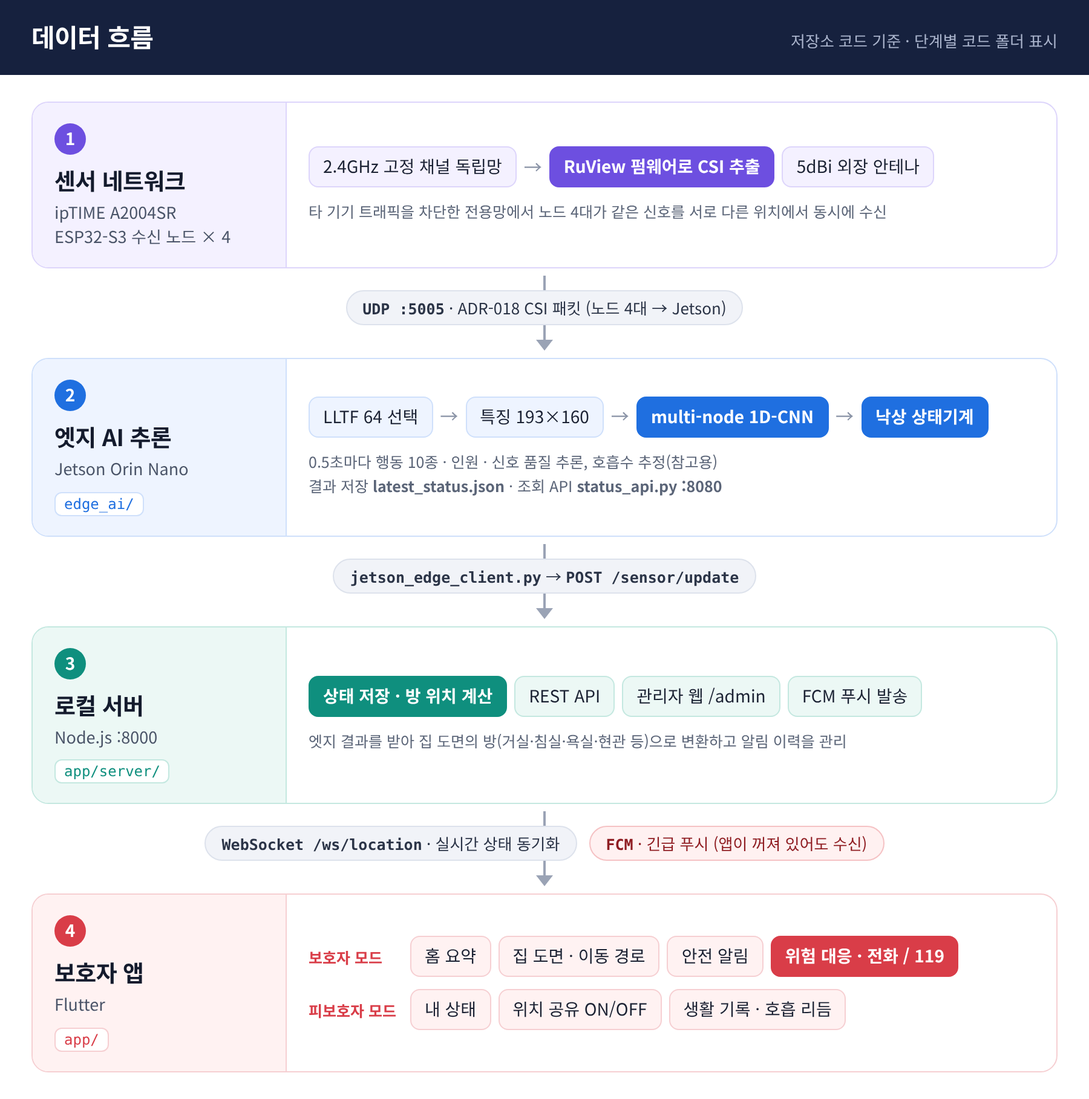
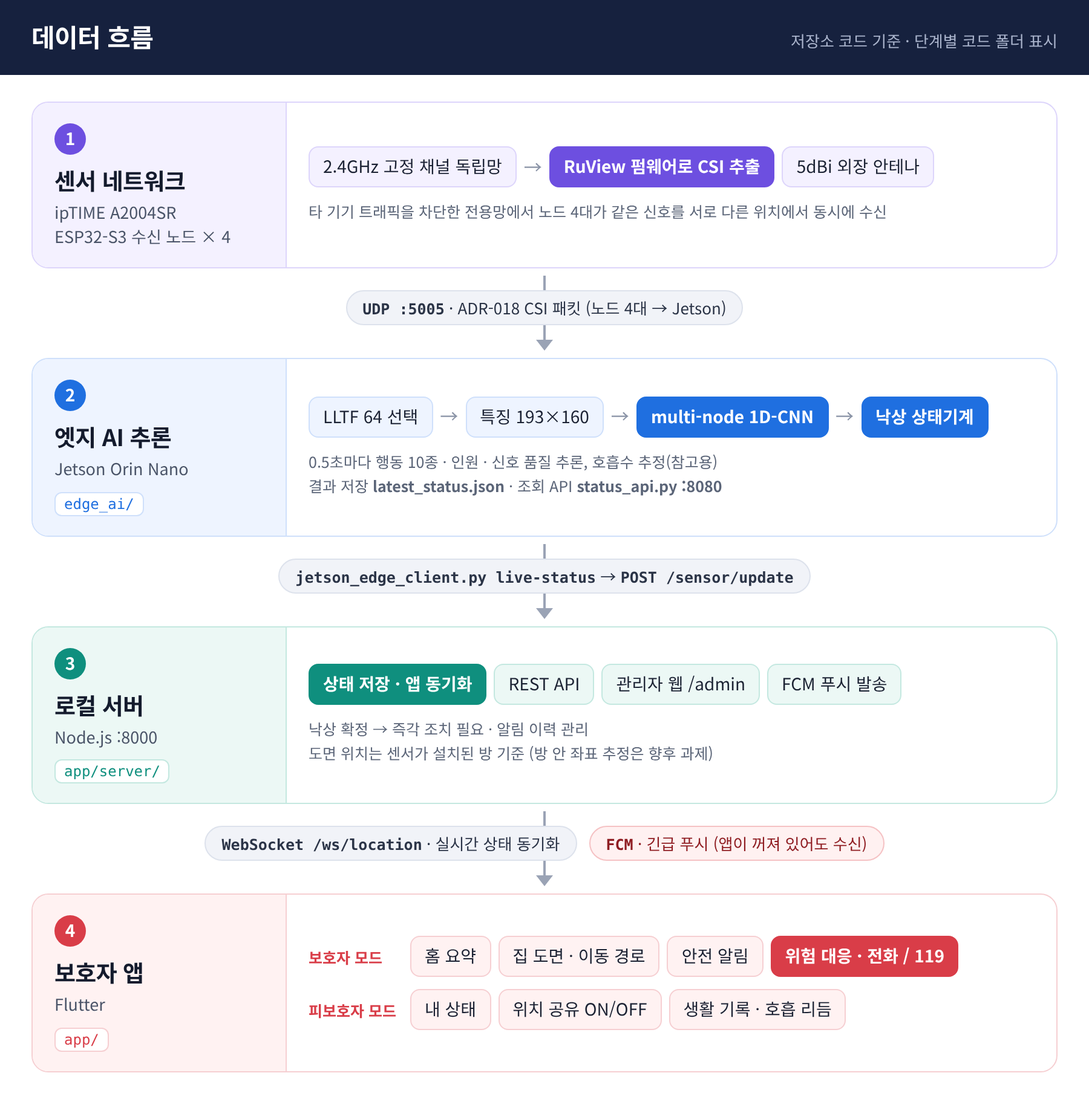
Revise README after review: V2 diagrams, scope and limits, open-source credit
첫 화면 구성도를 현재 구현(V2) 기준으로 교체, 상태기계 그림 재작성(POST_FALL_CHECK 포함),
구현 범위와 한계·V1/V2 차이·오픈소스(RuView) 활용 범위 추가, 실행 명령어 수정,
통계 출처 명시, 앱 화면 2×2·하드웨어 사진 캡션 추가.

Claude-Session: https://claude.ai/code/session_01KQA7K7SR5Knkv13akEHFhv

Changed region(s): [[0.28, 0.5853, 0.84, 0.7085], [0.28, 0.5237, 0.7156, 0.5545]]

diff --git a/README.md b/README.md
@@ -1,10 +1,18 @@
 # 📝 WiFi CSI 기반 주거 취약계층을 위한 스마트 주거 안전망
 
-> 2026년 한이음 드림업 공모전 · 카메라도, 웨어러블도 없이 **WiFi 신호만으로** 집 안 낙상을 감지하고 보호자에게 즉시 알리는 비접촉 주거 안전망
+> 2026년 한이음 드림업 공모전 · 프로젝트 번호 26_HS022<br>
+> 카메라도, 웨어러블도 없이 **WiFi 신호만으로** 집 안 낙상을 감지하고 보호자에게 즉시 알리는 비접촉 주거 안전망
 
 <p align="center">
-  <img src="docs/images/system_architecture.png" alt="전체 시스템 구성도" width="900">
+  <img src="docs/images/system_overview.png" alt="전체 시스템 구성도 - 공유기, ESP32-S3 4대, Jetson Orin Nano, 보호자 알림" width="900">
 </p>
+
+| 한눈에 보기 | |
+|---|---|
+| **무엇을** | ESP32-S3 4대가 수신한 WiFi CSI로 Jetson Orin Nano가 낙상을 판정하고, 보호자 앱에 실시간 알림과 대응 화면을 제공 |
+| **핵심 기술** | 4노드 attention 융합 multi-node 1D-CNN + 오탐을 줄이는 낙상 확정 상태기계 |
+| **코드** | `edge_ai/` 엣지 AI 파이프라인 · `app/` Flutter 앱과 로컬 서버 |
+| **현재 상태** | 센서 → 엣지 AI → 서버 → 앱 전 구간 코드 연결, 단위 테스트 31개 통과, 실환경 녹화 36건 수집 (구현 범위는 아래 6장) |
 
 ---
 
@@ -17,19 +25,19 @@
 - 동작 개요
   - **센싱** : ipTIME 공유기가 센서 전용 독립망에서 신호를 송출하고, ESP32-S3 수신 노드 4대가 CSI를 실시간 추출해 UDP로 전송
   - **엣지 AI** : Jetson Orin Nano가 4개 노드의 CSI를 통합해 multi-node 1D-CNN으로 행동·인원·신호 품질을 추론하고, 낙상 상태기계로 오탐을 걸러 낙상을 확정
-  - **알림·대응** : Node.js 로컬 서버가 WebSocket으로 앱에 상태를 실시간 동기화하고, 위급 시 FCM 푸시를 발송. 보호자는 집 도면에서 위치를 확인하고 전화·119 신고로 대응
+  - **알림·대응** : 로컬 서버가 WebSocket으로 앱에 상태를 실시간 동기화하고, 위급 시 FCM 푸시를 발송. 보호자는 집 도면에서 위치를 확인하고 전화·119 신고로 대응
 
 **1-2. 개발 배경 및 필요성**
 
 - **돌봄 공백의 심화** : 65세 이상 1인 가구는 2022년 192.3만 가구에서 2052년 496.1만 가구로 늘어날 전망이며(통계청), 독거노인 비율도 2024년 23.7%로 2000년(16.2%) 대비 크게 증가했습니다. 인력 기반의 상시 돌봄은 한계에 도달해 기술 기반 상시 모니터링이 필요합니다.
-- **낙상은 집 안에서 일어난다** : 고령자 안전사고의 62.7%가 낙상이고, 낙상 사고의 51.3%가 주택 내에서 발생합니다. 혼자 사는 고령자에게는 쓰러진 뒤 발견이 늦어지는 것 자체가 가장 큰 위험입니다.
+- **낙상은 집 안에서 일어난다** : 한국소비자원 소비자위해감시시스템(CISS)에 접수된 65세 이상 고령자의 가정 내 안전사고 10,751건 중 69.0%(7,423건)가 미끄러짐·넘어짐 사고였습니다([아시아경제, 2025.3.25](https://view.asiae.co.kr/article/2025032417042451647)). 혼자 사는 고령자에게는 쓰러진 뒤 발견이 늦어지는 것 자체가 가장 큰 위험입니다.
 - **기존 방식의 한계** : 카메라는 상시 촬영에 따른 사생활 침해로 설치 거부감이 크고, 웨어러블은 착용 거부·충전 누락 시 감지가 불가능합니다.
 - **비접촉 WiFi 센싱의 가능성** : 이미 집에 있는 WiFi 신호의 미세한 왜곡만으로 동작을 인식할 수 있어, 착용·촬영 없이 생활을 방해하지 않는 상시 감지가 가능하고 저가 모듈로 도입 비용도 낮습니다.
 
 **1-3. 프로젝트 특장점**
 
 - **완전 비접촉·비촬영** : 카메라·웨어러블 없이 WiFi CSI만으로 감지하여 사생활 침해와 착용 부담을 원천 제거
-- **저비용 하드웨어** : 고가의 WiFi 센싱 전용 NIC 대신 XIAO ESP32-S3 + 오픈소스 RuView 펌웨어로 CSI 추출 노드 구성
+- **저비용 하드웨어** : 고가의 WiFi 센싱 전용 NIC 대신 XIAO ESP32-S3 + 오픈소스 [RuView](https://github.com/ruvnet/RuView) 펌웨어로 CSI 추출 노드 구성
 - **다중 노드 attention 융합** : 4개 수신 노드의 CSI를 노드별 신호 품질과 함께 attention으로 가중 통합하여, 일부 노드가 끊겨도(node mask) 안정적으로 추론
 - **오탐을 줄이는 낙상 상태기계** : 한 번의 확률 튐으로는 알림을 보내지 않고 `낙상 후보 → 사후 눕기 확인 → 확정 / 회복` 단계를 거쳐야만 경보 전송
 - **엣지 로컬 처리** : 원시 CSI는 외부로 나가지 않고 Jetson 안에서만 처리되어 프라이버시와 실시간성을 동시에 확보
@@ -46,10 +54,10 @@
 | AI | multi-node 1D-CNN | 노드별 1D-CNN 인코더 + attention 융합으로 행동 10종·인원 4분류·신호 품질 동시 추론 |
 | AI | 낙상 상태기계 | 반복된 낙상 확률 → 사후 눕기 확인 → 확정(30초 경보 유지) / 회복 시 경보 취소 |
 | AI | 호흡 리듬 모니터링 | 정지 상태에서 CSI 진폭 스펙트럼(6~30회/분 대역)으로 분당 호흡수 추정 (참고용) |
-| Server | 실시간 상태 동기화 | Node.js 로컬 서버가 `POST /sensor/update`로 엣지 결과를 받아 `WS /ws/location`으로 앱에 전달 |
-| Server | 긴급 푸시 | 위험 상황 시 Firebase Cloud Messaging으로 보호자 기기에 푸시 (앱이 꺼져 있어도 수신) |
+| Server | 엣지 → 서버 연동 | `jetson_edge_client.py live-status`가 엣지 추론 결과를 서버 형식으로 변환해 `POST /sensor/update`로 전달 |
+| Server | 실시간 동기화 · 긴급 푸시 | 로컬 서버가 `WS /ws/location`으로 앱에 상태를 전달하고, 위험 시 FCM 푸시 발송(앱이 꺼져 있어도 수신) |
 | App | 역할 기반 화면 | 하나의 앱에서 보호자 모드(위험 대응 중심) / 피보호자 모드(생활 상태·위치 공유 관리) 선택 |
-| App | 디지털 트윈 도면 | 집 도면 위에 현재 위치·사람 미니어처·최근 이동 경로 표시, 위치 공유 OFF 시 동선 비공개 |
+| App | 집 도면 위치 표시 | 도면 위에 위치·사람 미니어처·최근 이동 경로 표시(센서 설치 방 기준), 위치 공유 OFF 시 동선 비공개 |
 | App | 위험 대응 | 즉각 조치 알림 → 발생 위치·자세 확인 → 어르신 전화 / 119 신고 정보 / 5단계 상황 대응 절차 |
 
 **1-5. 기대 효과 및 활용 분야**
@@ -68,7 +76,7 @@
 
 - 센서 / H/W : XIAO ESP32-S3 (RuView 펌웨어, 2.4GHz CSI), 2.4GHz 5dBi 다이폴 외장 안테나, ipTIME A2004SR(802.11ac, MU-MIMO), NVIDIA Jetson Orin Nano Super 8GB (JetPack 6.2.1, NVMe SSD)
 - 엣지 AI : Python, PyTorch(CUDA), NumPy, UDP 소켓, systemd 서비스
-- 서버 : Node.js(HTTP + WebSocket 로컬 서버), Python FastAPI(대안 서버), Firebase Cloud Messaging
+- 서버 : Node.js(HTTP + WebSocket 로컬 서버), Firebase Cloud Messaging
 - 모바일 앱 : Flutter(Dart), web_socket_channel, firebase_messaging
 - 협업 / 관리 : GitHub, Notion, Figma(UI/UX 설계), 카카오톡
 
@@ -84,53 +92,51 @@
 
 ## **💡3. 시스템 구성도**
 
-**3-1. 서비스 구성도**
+**3-1. 데이터 흐름 (저장소 코드 기준)**
 
-데이터 수집(센싱 환경) → 엣지 추론 및 백엔드 → 프론트엔드 및 긴급 대응의 3계층으로 구성됩니다.
-
-<p align="center"><img src="docs/images/service_structure.png" alt="서비스 구성도" width="800"></p>
-
-**3-2. 데이터 흐름 (저장소 코드 기준)**
+각 단계 카드에 해당 코드가 있는 폴더를 표시했습니다.
 
 <p align="center"><img src="docs/images/data_flow.png" alt="데이터 흐름 - 센서 네트워크, 엣지 AI, 로컬 서버, 보호자 앱" width="820"></p>
 
-**3-3. 낙상 감지 AI 추론 흐름도 (V2)**
+**3-2. 낙상 감지 추론 흐름 · 상태기계**
 
 낙상 여부는 특정 순간의 확률값 하나로 판단하지 않고, 0.5초마다 들어오는 추론 결과를 상태기계로 누적해 순차적으로 확인합니다.
 
-<p align="center"><img src="docs/images/inference_flow_v2.png" alt="실시간 낙상 감지 추론 흐름도 V2" width="520"></p>
+<p align="center"><img src="docs/images/fall_state_machine.png" alt="낙상 감지 추론 흐름과 상태기계" width="900"></p>
 
-| 단계 | 조건 (`config/default_config.json`) | 결과 |
+| 단계 | 조건 (`edge_ai/config/default_config.json`) | 결과 |
 |---|---|---|
 | ① 낙상 후보 | fall 확률 ≥ 0.70 이 2회 누적 | `NORMAL → FALL_CANDIDATE → POST_FALL_CHECK` |
 | ② 사후 확인 | lying(눕기) 확률 ≥ 0.55 가 3회 | `CONFIRMED` · 낙상 확정 알림 전송, 30초간 경보 유지 |
-| ③ 회복 체크 | walking/standing/stand_up 확률 ≥ 0.65 가 2회 | `RECOVERED` · 단순히 앉거나 눕는 동작으로 보고 경보 취소 |
-| ④ 시간 초과 | 8초 안에 확정·회복 모두 아님 | `NORMAL` 복귀 |
-| 예외 | 신호 품질 < 0.55 / 빈 방(인원 0) | `UNKNOWN`으로 판단 유보 / `NORMAL` |
+| ③ 회복 체크 | 서기·걷기·일어서기 확률 ≥ 0.65 가 2회 | `RECOVERED` · 단순히 앉거나 누웠다 일어난 것으로 보고 경보 취소 |
+| ④ 시간 초과 | 8초 안에 확정·회복 모두 없음 | `NORMAL` 복귀 |
+| 예외 | 신호 품질 < 0.55 / 방에 사람 없음(인원 0) 예측 | `UNKNOWN`으로 판단 유보 / `NORMAL` — 단, 사후 확인·확정 중에는 두 경우 모두 상태 유지 |
 
-**3-4. H/W 구성도**
+**3-3. H/W 구성 (실물)**
 
-<p align="center"><img src="docs/images/hardware.jpg" alt="하드웨어 실물 사진" width="900"></p>
+<p align="center"><img src="docs/images/hardware.jpg" alt="하드웨어 실물 - 공유기, 센서 노드, 엣지 서버, 설치 모습" width="900"></p>
 
 | 구성 | 부품 | 역할 |
 |---|---|---|
-| 네트워크·송신 | ipTIME A2004SR | 2.4GHz 고정 채널·전용 SSID·노드별 고정 IP로 센서 전용 독립망 구성, 타 기기 트래픽 간섭 차단 |
-| 센서 노드 ×4 | XIAO ESP32-S3 + 5dBi 외장 안테나(U.FL→SMA) | RuView 펌웨어로 CSI 추출, 내장 안테나(RSSI -80dBm 수준) 한계를 외장 다이폴로 개선 |
-| 엣지 서버 | Jetson Orin Nano Super 8GB | JetPack 6.2.1 + NVMe SSD, GPU 가속 실시간 추론, 원시 CSI 로컬 처리 |
-| 설치 환경 | 연구실 · 생활 주거 공간 | 감지 영역 네 모서리에 노드를 분산 배치해 다중 관점(multi-view) CSI 확보 |
+| ① 네트워크·송신 | ipTIME A2004SR | 2.4GHz 고정 채널·전용 SSID·노드별 고정 IP로 센서 전용 독립망 구성, 타 기기 트래픽 간섭 차단 |
+| ② 센서 노드 ×4 | XIAO ESP32-S3 + 5dBi 외장 안테나(U.FL→SMA) | RuView 펌웨어로 CSI 추출, 내장 안테나(RSSI -80dBm 수준) 한계를 외장 다이폴로 개선 |
+| ③ 엣지 서버 | Jetson Orin Nano Super 8GB | JetPack 6.2.1 + NVMe SSD, GPU 가속 실시간 추론, 원시 CSI 로컬 처리 |
+| ④ 설치 환경 | 연구실 · 생활 주거 공간 | 감지 영역 네 모서리에 노드를 분산 배치해 다중 관점(multi-view) CSI 확보 |
 
-**3-5. 앱 메뉴 구성도 및 화면**
+**3-4. 앱 메뉴 구성도 및 화면**
 
 <p align="center"><img src="docs/images/app_menu.png" alt="앱 메뉴 구성도" width="700"></p>
 
-<p align="center"><img src="docs/images/app_screens.png" alt="보호자 앱 화면 - 홈, 집 안 상태, 안전 알림, 설정" width="900"></p>
+<p align="center"><img src="docs/images/app_screens.png" alt="보호자 앱 화면 - 홈 요약, 집 안 상태, 안전 알림, 설정" width="640"></p>
 
-**3-6. 엔티티 관계도**
+**3-5. 엔티티 관계도 (서비스 확장용 설계안)**
 
 <p align="center"><img src="docs/images/erd.png" alt="엔티티 관계도" width="700"></p>
 
+> 현재 로컬 서버는 보호자·설정·알림 이력을 JSON 상태 파일(`app/server/dev_state.json`)에 저장합니다. 위 ERD는 다중 사용자 서비스로 확장할 때의 DB 설계안입니다.
+
 <details>
-<summary>유즈케이스 다이어그램 보기</summary>
+<summary>유즈케이스 다이어그램 보기 (설계 단계)</summary>
 <p align="center"><img src="docs/images/usecase.png" alt="유즈케이스 다이어그램" width="900"></p>
 </details>
 
@@ -138,9 +144,9 @@
 
 ## **💡4. 작품 소개영상**
 
-[![WiFi CSI 기반 스마트 주거 안전망 소개영상](https://img.youtube.com/vi/VIDEO_ID/maxresdefault.jpg)](https://youtu.be/VIDEO_ID)
+> 🎬 **소개영상 링크 추가 예정**
 
-**시스템 동작 행동화 (데이터 수집 과정)**
+**동작 시연 (실환경 데이터 수집 과정)**
 
 | 앉는 동작 | 눕는 동작 | 넘어지는 동작 |
 |:---:|:---:|:---:|
@@ -236,9 +242,72 @@ features = np.concatenate(
 )  # (64 + 64 + 64 + 1 = 193, 160 frames)
 ```
 
+**5-4. 엣지 → 서버 연동** — [`app/server/jetson_edge_client.py`](app/server/jetson_edge_client.py)
+
+- 소스코드 설명 : 엣지 AI의 실시간 결과(`latest_status.json`)를 읽어 서버 입력 형식으로 바꿉니다. 상태기계가 `CONFIRMED`일 때만 `danger`로 보내고, 호흡수는 엣지가 신뢰할 수 있다고 판단한 값만 전달합니다. 값이 없을 때 임의의 숫자를 채워 넣지 않습니다.
+
+```python
+def payload_from_live_status(record, args):
+    fall = record.get("fall") or {}
+    alarm = bool(fall.get("alarm")) or fall.get("state") == "confirmed"
+    activity = str(record.get("activity") or "unknown")
+    probabilities = record.get("activity_probabilities") or {}
+    if alarm:
+        status, pose = "danger", "lying"
+        confidence = probabilities.get("fall", record.get("activity_confidence"))
+    else:
+        status = "normal"
+        pose = LIVE_ACTIVITY_TO_POSE.get(activity, "standing")
+    ...
+    breathing_rate = respiratory.get("breathing_rate_bpm")   # 신뢰 가능할 때만 값이 있음
+    if breathing_rate is not None:
+        payload["breathingRate"] = round(clamp(float(breathing_rate), 6.0, 36.0), 1)
+    return payload
+```
+
 ---
 
-## **💡6. 저장소 구조**
+## **💡6. 구현 범위와 한계**
+
+심사·재현 시 혼동이 없도록, 저장소에 실제로 구현된 범위를 구분해 밝힙니다.
+
+| 구분 | 내용 |
+|---|---|
+| **구현됨 (저장소 포함)** | CSI 패킷 수신·검증 · 193채널 특징 추출 · multi-node 1D-CNN 학습·평가·실시간 추론 코드 · 낙상 확정 상태기계 · 호흡수 추정(참고용) · 상태 조회 API · 엣지 → 서버 연동(`live-status`) · 로컬 서버 WebSocket·FCM · 보호자/피보호자 앱 화면 · 위치 공유 OFF 시 동선 비공개(위험 알림은 유지) |
+| **시연용으로 단순화** | 도면 위치: 모델은 방 단위로 판단하므로 센서가 설치된 방의 도면 좌표로 표시 · 로그인: 역할 선택용(인증 미구현) · 발표용 시나리오 재현(`sequence` 모드, 관리자 콘솔) · 상황 재연 화면: 알림 기록으로 재구성한 예시 화면 |
+| **계획 · 저장소 미포함** | 일일·주간 생활 패턴 리포트 · ERD 기반 DB(현재 JSON 상태 파일) · 위험/안전구역 공간 필터 · 외부망 보호자 접속(현재 같은 네트워크 + FCM 푸시) · 서버 API 인증 · 학습된 모델 가중치와 원본 CSI 데이터(용량 문제) |
+
+**개발보고서(V1)와 현재 저장소(V2)의 차이**
+
+개발보고서는 초기 모델(V1) 기준으로 작성되었고, 저장소에는 이후 고도화한 V2 파이프라인이 들어 있습니다.
+
+| 항목 | V1 (개발보고서) | V2 (현재 저장소) |
+|---|---|---|
+| 입력 | 4노드 유효 134채널 × 500프레임 (100Hz · 5초) | 노드별 193채널 × 160프레임 (32Hz 보간 · 5초), 최대 4노드 |
+| 정규화 | z-score | 로그 진폭 + 중앙값·MAD 동적 진폭 + 위상차 + RSSI |
+| 모델 | 1D-CNN 3층, 낙상/비낙상 2종 | 노드 공유 1D-CNN + attention 융합, 행동 10종 · 인원 · 품질 |
+| 후처리 | 시간·공간 필터 | 낙상 확정 상태기계 (후보 → 사후 확인 → 확정 / 회복) |
+| 배포 | TensorRT 엔진 변환 | PyTorch 실시간 추론 (systemd 서비스) |
+| 저장소 | 미포함 | `edge_ai/` |
+
+---
+
+## **💡7. 오픈소스 활용 및 팀 기여**
+
+| 오픈소스 | 라이선스 | 사용 범위 |
+|---|---|---|
+| [RuView](https://github.com/ruvnet/RuView) | MIT | ESP32-S3 CSI 추출 펌웨어, CSI 패킷 형식(ADR-018) |
+
+RuView에는 자체 낙상·호흡 감지 기능도 있지만, 본 프로젝트는 **CSI를 뽑아 보내는 펌웨어로만** 사용했습니다. Jetson에서 동작하는 감지·판단 로직은 팀이 직접 구현했습니다.
+
+- CSI 패킷 수신·검증과 LLTF 블록 선택 — `edge_ai/hanium_fall_v2/adr018.py`, `edge_ai/ruview_adr018_receiver.py`
+- 특징 추출, multi-node 1D-CNN, 데이터셋 분할·학습·평가 — `features.py`, `model.py`, `build_manifest.py`, `train.py`, `evaluate.py`
+- 낙상 확정 상태기계, 호흡·기침 후보 모니터링 — `fall_state.py`, `respiratory.py`, `cough.py`
+- Jetson 배포(systemd), 상태 API, 엣지 → 서버 연동, 로컬 서버, Flutter 앱 — `edge_ai/jetson/`, `status_api.py`, `app/`
+
+---
+
+## **💡8. 저장소 구조**
 
 기존에 따로 관리하던 두 저장소(`Hanium_jetson`, `Hanium_app`)를 커밋 이력을 보존한 채 하나로 합쳤습니다.
 
@@ -247,65 +316,55 @@ features = np.concatenate(
 ├── README.md
 ├── docs/
 │   ├── images/                  # README 구성도·화면·실물 사진
-│   └── data_collection/         # 실환경 CSI 녹화 세션 기록 (36개 녹화, 익명화)
+│   └── data_collection/         # 실환경 CSI 녹화 세션 기록 (36건, 익명화)
 ├── edge_ai/                     # (구 Hanium_jetson) Jetson 엣지 AI 파이프라인
-│   ├── hanium_fall_v2/          #   특징 추출·모델·학습·낙상 상태기계·호흡/기침 모니터링
-│   │   ├── adr018.py            #     RuView ADR-018 CSI 패킷 파서
-│   │   ├── features.py          #     193채널 × 160프레임 특징 추출
-│   │   ├── model.py             #     multi-node 1D-CNN
-│   │   ├── fall_state.py        #     낙상 확정 상태기계
-│   │   ├── live_inference.py    #     실시간 UDP 수신 + 추론
-│   │   ├── capture_labeled.py   #     라벨링된 CSI 수집
-│   │   ├── train.py / evaluate.py
-│   │   └── status_api.py        #     추론 결과 HTTP API
+│   ├── hanium_fall_v2/          #   패킷 파서 · 특징 추출 · 모델 · 학습/평가 · 상태기계 · 호흡/기침 · 상태 API
 │   ├── config/default_config.json
-│   ├── jetson/                  #   systemd 서비스·실행 스크립트
-│   └── tests/
+│   ├── jetson/                  #   실행 스크립트 · systemd 서비스
+│   └── tests/                   #   단위 테스트
 └── app/                         # (구 Hanium_app) 모바일 앱 + 로컬 서버
     ├── lib/                     #   Flutter 앱 (보호자/피보호자 모드, 도면, 알림)
-    ├── server/                  #   Node.js 로컬 서버, FastAPI 대안 서버, Jetson 연동 클라이언트
+    ├── server/                  #   Node.js 로컬 서버(dev_mock_server.js), 엣지 연동 클라이언트
     └── docs/
 ```
 
+> `app/server/main.py`, `routers/`, `services/`는 초기 FastAPI 프로토타입으로, 현재 시연은 Node.js 서버를 사용합니다.
+
 ---
 
-## **💡7. 실행 방법**
+## **💡9. 실행 방법**
 
 **① 엣지 AI (Jetson Orin Nano)**
 
 ```bash
 cd edge_ai
-pip install -r requirements.txt          # + JetPack에 맞는 PyTorch
-python3 -m hanium_fall_v2.selftest       # 파이프라인 자체 점검
+pip install -r requirements.txt               # + JetPack에 맞는 PyTorch
+python3 -m hanium_fall_v2.selftest            # 파이프라인 자체 점검
+python3 -m unittest discover -s tests         # 단위 테스트
 
-# 실시간 추론 (ESP32 노드 1~4에서 UDP 5005로 수신)
-RUVIEW_APP_DIR=$(pwd) \
-RUVIEW_CHECKPOINT=$(pwd)/models/production/best_model.pt \
-./jetson/run_live.sh
-
-# 상태 API (기본 :8080) / systemd 서비스 등록
-RUVIEW_APP_DIR=$(pwd) ./jetson/run_api.sh
-./jetson/install_services.sh "$(pwd)"
+RUVIEW_CHECKPOINT=$(pwd)/models/production/best_model.pt ./jetson/run_live.sh   # 실시간 추론 (UDP 5005)
+./jetson/run_api.sh                           # 상태 API (기본 :8080)
+./jetson/install_services.sh                  # 부팅 시 자동 실행 등록
 ```
-
-> 학습된 체크포인트(`*.pt`)와 수집 데이터(`captures/`)는 용량 문제로 저장소에 포함하지 않습니다.
 
 **② 로컬 서버 (노트북 / 발표 PC)**
 
 ```powershell
 cd app\server
-$env:REAL_SENSOR_ONLY="true"                                   # 실제 센서 값만 반영
-$env:GOOGLE_APPLICATION_CREDENTIALS="<firebase-service-account.json 경로>"   # FCM 사용 시
-.\run_mock_server_node.cmd                                     # http://127.0.0.1:8000/admin
+$env:REAL_SENSOR_ONLY="true"                                                  # 실제 센서 값만 반영
+$env:GOOGLE_APPLICATION_CREDENTIALS="<firebase-service-account.json 경로>"     # FCM 사용 시
+.\run_mock_server_node.cmd                                                    # 관리자 화면 http://127.0.0.1:8000/admin
 ```
 
-Jetson에서 서버로 결과 전달:
+**③ 엣지 결과를 서버로 전달**
 
 ```bash
-python3 app/server/jetson_edge_client.py --server-url http://<서버 IP>:8000 health
+python3 app/server/jetson_edge_client.py health --server-url http://<서버 IP>:8000           # 연결 확인
+python3 app/server/jetson_edge_client.py live-status \
+  --status-file edge_ai/runtime/latest_status.json --server-url http://<서버 IP>:8000        # 실시간 전달
 ```
 
-**③ Flutter 앱**
+**④ Flutter 앱**
 
 ```bash
 cd app
@@ -317,18 +376,19 @@ flutter run --dart-define=SERVER_URL=http://<서버 IP>:8000 --dart-define=DEMO_
 
 ---
 
-## **💡8. 검증 결과**
+## **💡10. 검증 결과**
 
 - **재현율(Recall) 최우선 설계** : 낙상을 놓치는 것(미탐)이 곧 인명 피해로 이어지므로 정확도 대신 재현율을 1차 지표로 삼고, 클래스 가중 교차 엔트로피로 소수 클래스인 낙상 학습을 강화했습니다.
-- **실환경 데이터 수집** : 2026년 7월 4차례에 걸쳐 CSI와 웹캠 관절 좌표를 동시에 녹화했습니다(총 36개 녹화: 낙상 14 · 비틀거리기·물건 줍기 등 혼동 동작 7 · 일상 동작 15). 세션별 목록은 [`docs/data_collection`](docs/data_collection)에 있습니다.
-- **실환경 검증 (개발보고서 기준)**
+- **코드 검증 (V2, 저장소)** : 단위 테스트 31개 통과(PyTorch가 필요한 6개는 미설치 환경에서 건너뜀)와 `selftest` 통과. 패킷 파서, 특징 추출, 상태기계(빈 방 예측에도 확정 경보 유지), 호흡 게이트, 라벨, 피험자 단위 데이터 분할을 검사합니다.
+- **연동 검증** : 엣지 결과 파일과 상태 API 두 경로로 낙상 확정 상태를 `live-status`로 전달해, 로컬 서버 상태가 `즉각 조치 필요(danger)`로 바뀌고 신뢰 가능한 호흡수만 실측값으로 반영되는 것을 확인했습니다.
+- **실환경 데이터 수집** : 2026년 7월 4차례에 걸쳐 CSI와 웹캠 관절 좌표를 동시에 녹화했습니다(총 36건: 낙상 14 · 비틀거리기·물건 줍기 등 혼동 동작 7 · 일상 동작 15). 세션별 목록은 [`docs/data_collection`](docs/data_collection)에 있습니다.
+- **모델 성능 (V1 모델, 개발보고서 기준)** — 평가 산출물(지표 파일·가중치)은 저장소에 포함하지 않았습니다.
   - 초기 검증 : 502개 클립, 낙상/비낙상 2종 → 재현율 1.0, 오탐 0건
-  - 확장 검증 : 1,019개 클립(낙상 302건 포함), 휘청임·물건 줍기 등 헷갈리는 동작을 포함한 11종 라벨 → **재현율 0.933**, 낙상과 가장 혼동되기 쉬운 '휘청임(넘어지지 않음)'을 낙상으로 오탐한 사례 **0건**
-- **모델 발전 과정** : 초기 V1은 100Hz로 수집한 유효 134채널 × 500프레임(5초) 입력의 1D-CNN(약 8.7만 파라미터, TensorRT 변환)으로 낙상/비낙상 2종을 분류했습니다. 현재 저장소의 V2는 4노드 attention 융합과 낙상 상태기계를 도입해 행동 10종·인원·신호 품질까지 함께 판단하도록 확장했습니다.
+  - 확장 검증 : 1,019개 클립(낙상 302건 포함), 비틀거리기·물건 줍기 등 혼동 동작을 포함한 11종 동작 → **재현율 0.933**, 낙상과 가장 혼동되기 쉬운 '비틀거리기(넘어지지 않음)'를 낙상으로 오탐한 사례 **0건**
 
 ---
 
-## **💡9. 개발 과정의 문제와 해결**
+## **💡11. 개발 과정의 문제와 해결**
 
 | 문제 | 해결 |
 |---|---|
@@ -336,8 +396,10 @@ flutter run --dart-define=SERVER_URL=http://<서버 IP>:8000 --dart-define=DEMO_
 | 하드웨어·AI 담당 간 CSI 데이터 형식(채널 수·프레임 길이·라벨)이 통일되지 않음 | 데이터 규격을 명문화하고, 학습·실시간 추론이 하나의 특징 추출 함수를 공유하도록 구조화 |
 | 내장 PCB 안테나의 낮은 수신 감도(RSSI -80dBm 수준)로 패킷 유실 발생 | 5dBi 외장 다이폴 안테나 결선으로 SNR 확보 |
 | 일반 가정망 트래픽이 CSI에 잡음으로 유입 | 고정 채널·전용 SSID·고정 IP의 센서 전용 독립망 구성 |
+| 엣지 추론 결과 형식과 서버 입력 형식이 달라 실제 판정이 앱까지 전달되지 않음 | `jetson_edge_client.py live-status`로 상태기계 결과를 서버 형식으로 변환해 전달, 호흡값은 신뢰할 수 있을 때만 전송 |
+| 낙상 확정 후 '방에 사람 없음' 예측 한 번에 경보가 해제됨 (움직이지 않는 사람은 빈 방처럼 보일 수 있음) | 사후 확인·확정 중에는 빈 방 예측을 무시하도록 상태기계를 수정하고 회귀 테스트 추가 |
 | 앱 화면에 서버·센서 상태 등 개발자 중심 정보가 과도하게 노출 | 보호자(위험 대응)·피보호자(생활 상태·위치 공유)로 화면 목적을 재정의 |
-| 좌표 기반 위치 표시는 보호자가 이해하기 어려움 | 거실·침실·욕실·현관 등 생활 공간 단위의 디지털 트윈 도면으로 표현 |
+| 좌표 기반 위치 표시는 보호자가 이해하기 어려움 | 거실·침실·욕실·현관 등 생활 공간 단위의 집 도면으로 표현 |
 
 ---
 

diff --git a/edge_ai/README.md b/edge_ai/README.md
@@ -11,25 +11,29 @@ ESP32-S3 수신 노드 4대가 보내는 RuView ADR-018 CSI 패킷(UDP 5005)을 
 | `hanium_fall_v2/respiratory.py` | CSI 기반 호흡수 추정, 보수적 무호흡 의심 게이트 (심박 미추정) |
 | `hanium_fall_v2/live_inference.py` | 실시간 UDP 수신·추론, `runtime/latest_status.json` 기록 |
 | `hanium_fall_v2/capture_labeled.py` | 라벨(행동·인원)을 붙인 CSI 수집 |
-| `hanium_fall_v2/build_manifest.py`, `train.py`, `evaluate.py` | 데이터셋 구성·학습·평가 |
+| `hanium_fall_v2/build_manifest.py`, `train.py`, `evaluate.py` | 피험자 단위 데이터 분할·학습·평가 |
 | `hanium_fall_v2/status_api.py` | 추론 결과 조회용 HTTP API (기본 8080) |
 | `jetson/` | 실행 스크립트와 systemd 서비스 템플릿 |
 | `config/default_config.json` | 특징·모델·상태기계·건강 모니터링 설정값 |
 
-## 빠른 점검
+## 점검
 
 ```bash
 pip install -r requirements.txt
-python3 -m hanium_fall_v2.selftest      # torch 없이도 파서·특징·상태기계 점검
+python3 -m hanium_fall_v2.selftest        # torch 없이도 파서·특징·상태기계 점검
+python3 -m unittest discover -s tests     # 단위 테스트 (torch가 필요한 테스트는 자동으로 건너뜀)
 ```
 
 ## 실시간 실행
 
+스크립트는 자기 위치를 기준으로 `edge_ai/` 폴더를 찾습니다. 다른 위치에 설치했다면 `RUVIEW_APP_DIR`로 지정하세요.
+
 ```bash
-export RUVIEW_APP_DIR=$(pwd)
-./jetson/run_live.sh                     # 추론 (RUVIEW_NODES 기본 1,2,3,4)
-./jetson/run_api.sh                      # 상태 API
-./jetson/install_services.sh "$(pwd)"   # 부팅 시 자동 실행 등록
+./jetson/run_live.sh                      # 추론 (RUVIEW_NODES 기본 1,2,3,4, RUVIEW_CHECKPOINT로 모델 지정)
+./jetson/run_api.sh                       # 상태 API
+./jetson/install_services.sh              # 부팅 시 자동 실행 등록
 ```
+
+추론 결과를 앱 서버로 보내려면 `app/server/jetson_edge_client.py live-status`를 사용합니다([설명](../app/server/JETSON_EDGE_CLIENT.md)).
 
 학습된 체크포인트(`models/`)와 수집 데이터(`captures/`)는 `.gitignore`로 제외되어 있습니다.
